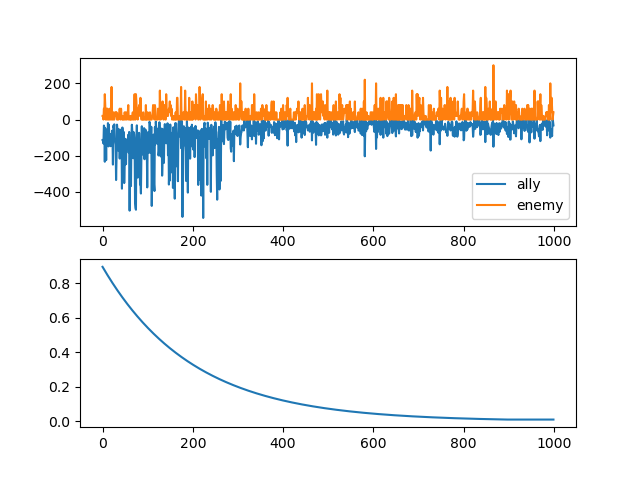
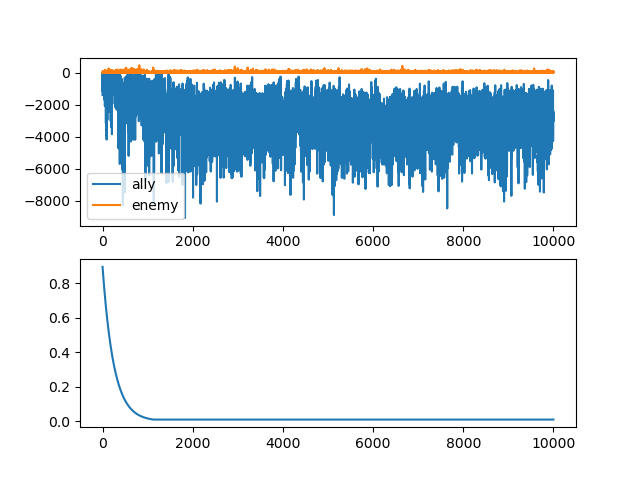
graph agent imp

diff --git a/src/utils/policy_interactive.py b/src/utils/policy_interactive.py
@@ -1,0 +1,56 @@
+import numpy as np
+from pyglet.window import key
+
+
+# individual agent policy
+class Policy(object):
+    def __init__(self):
+        pass
+
+    def action(self, obs):
+        raise NotImplementedError()
+
+
+# interactive policy based on keyboard input
+# hard-coded to deal only with movement, not communication
+class InteractivePolicy(Policy):
+    def __init__(self, env, agent_index):
+        super(InteractivePolicy, self).__init__()
+        self.env = env
+        # hard-coded keyboard events
+        self.move = [False for i in range(4)]
+        self.comm = [False for i in range(env.world.dim_c)]
+        # register keyboard events with this environment's window
+        env.viewers[agent_index].window.on_key_press = self.key_press
+        env.viewers[agent_index].window.on_key_release = self.key_release
+
+    def action(self, obs):
+        # ignore observation and just act based on keyboard events
+        if self.env.discrete_action_input:
+            u = 0
+            if self.move[0]: u = 1
+            if self.move[1]: u = 2
+            if self.move[2]: u = 4
+            if self.move[3]: u = 3
+        else:
+            u = np.zeros(5)  # 5-d because of no-move action
+            if self.move[0]: u[1] += 1.0
+            if self.move[1]: u[2] += 1.0
+            if self.move[3]: u[3] += 1.0
+            if self.move[2]: u[4] += 1.0
+            if True not in self.move:
+                u[0] += 1.0
+        return np.concatenate([u, np.zeros(self.env.world.dim_c)])
+
+    # keyboard event callbacks
+    def key_press(self, k, mod):
+        if k == key.LEFT:  self.move[0] = True
+        if k == key.RIGHT: self.move[1] = True
+        if k == key.UP:    self.move[2] = True
+        if k == key.DOWN:  self.move[3] = True
+
+    def key_release(self, k, mod):
+        if k == key.LEFT:  self.move[0] = False
+        if k == key.RIGHT: self.move[1] = False
+        if k == key.UP:    self.move[2] = False
+        if k == key.DOWN:  self.move[3] = False

diff --git a/main_interactive.py b/main_interactive.py
@@ -1,0 +1,36 @@
+from multiagent.environment import MultiAgentEnv
+from scenarios.simple_tag import Scenario
+from src.utils.policy_interactive import InteractivePolicy
+
+
+def make_env_tag():
+    # load scenario from script
+    scenario = Scenario()
+    # create world
+    world = scenario.make_world()
+    # create multi-agent environment
+    env = MultiAgentEnv(world, scenario.reset_world, scenario.reward, scenario.observation, info_callback=None, shared_viewer=False)
+    return env
+
+
+if __name__ == '__main__':
+
+    env = make_env_tag()
+
+    env.render()
+
+    policies = [InteractivePolicy(env, i) for i in range(env.n)]
+    # execution loop
+    obs_n = env.reset()
+    while True:
+        # query for action from each agent's policy
+        act_n = []
+        for i, policy in enumerate(policies):
+            act_n.append(policy.action(obs_n[i]))
+        # step environment
+        obs_n, reward_n, done_n, _ = env.step(act_n)
+        # render all agent views
+        env.render()
+        # display rewards
+        # for agent in env.world.agents:
+        #    print(agent.name + " reward: %0.3f" % env._get_reward(agent))

diff --git a/main_gnn.py b/main_gnn.py
@@ -1,3 +1,4 @@
+import torch
 import matplotlib.pyplot as plt
 
 from multiagent.environment import MultiAgentEnv
@@ -18,12 +19,14 @@ def make_env_tag():
 
 if __name__ == '__main__':
 
+    device = 'cuda:0' if torch.cuda.is_available() else 'cpu'
+
     env = make_env_tag()
 
     max_episodes = 10000
     max_t = 25
     curr_state = env.reset()
-    curr_g = state2graphfunc(env, curr_state)
+    curr_g = state2graphfunc(env, curr_state, device)
     t = 0
     fit_interval = 10
     batch_size = 100
@@ -32,7 +35,7 @@ if __name__ == '__main__':
     enemy_rewards = []
     epsilons = []
 
-    agent = GraphAgent(env.observation_space, env.action_space)
+    agent = GraphAgent(env.observation_space, env.action_space).to(device)
 
     for e in range(max_episodes):
         ep_ally_reward = 0
@@ -42,7 +45,7 @@ if __name__ == '__main__':
 
             action, argmax_action = agent(curr_g)
             next_state, reward, _done, info = env.step(action)
-            next_g = state2graphfunc(env, next_state)
+            next_g = state2graphfunc(env, next_state, device)
             t += 1
 
             for rwd, ag in zip(reward, env.agents):

diff --git a/src/utils/graph_func.py b/src/utils/graph_func.py
@@ -23,7 +23,9 @@ def state2graphfunc(env: MultiAgentEnv, obs, device=None):
     ally_idx = []
     enemy_idx = []
     node_type = []
+    pos = []
 
+    # prepare ndata
     for i, a in enumerate(env.agents):
         if a.adversary:
             node_type.append(NODE_ENEMY)
@@ -31,6 +33,7 @@ def state2graphfunc(env: MultiAgentEnv, obs, device=None):
         else:
             node_type.append(NODE_ALLY)
             ally_idx.append(i)
+        pos.append(a.state.p_pos)
 
     g = dgl.DGLGraph()
 
@@ -38,13 +41,11 @@ def state2graphfunc(env: MultiAgentEnv, obs, device=None):
     g.set_e_initializer(dgl.init.zero_initializer)
 
     num_agents = len(env.agents)
-    num_ally = len(ally_idx)
-    num_enemy = len(enemy_idx)
 
     g.add_nodes(num_agents)
-    # g.ndata['node_feature'] = torch.Tensor(obs).to(device)
     g.ndata['init_node_feature'] = torch.Tensor(obs).to(device)
     g.ndata['node_type'] = torch.Tensor(node_type).reshape(-1, 1).to(device)
+    g.ndata['pos'] = torch.Tensor(pos).to(device)
 
     a2a_edge = cartesian_product(ally_idx, ally_idx)
     e2a_edge = cartesian_product(enemy_idx, ally_idx)

diff --git a/src/agents/graphagent.py b/src/agents/graphagent.py
@@ -25,7 +25,7 @@ class GraphAgent(BaseAgent):
         self.random_action = torch.distributions.Multinomial(1, probs=random_prob)
 
         self.update_target(src=self.brain, target=self.target)
-        self.eps = 0.9
+        self.eps = 0.99
         self.eps_decay = 0.996
         self.gamma = 0.99
         self.eps_min = 0.01
@@ -48,8 +48,6 @@ class GraphAgent(BaseAgent):
 
     def push(self, state, action, n_state, reward, terminal):
         self.memory.push(state, action, n_state, reward, terminal)
-        if terminal:
-            self.eps = max(self.eps * self.eps_decay, self.eps_min)
 
     def fit(self):
         transitions = self.sample_from_memory()
@@ -88,6 +86,8 @@ class GraphAgent(BaseAgent):
         self.optimizer.zero_grad()
         loss.backward()
         self.optimizer.step()
+
+        self.update_eps()
 
     @staticmethod
     def convert_action_to_one_hot(num_actions, argmax_action):

diff --git a/src/agents/baseagent.py b/src/agents/baseagent.py
@@ -32,3 +32,6 @@ class BaseAgent(torch.nn.Module):
 
     def sample_from_memory(self):
         return self.memory.sample(self.batch_size)
+
+    def update_eps(self):
+        self.eps = max(self.eps * self.eps_decay, self.eps_min)
